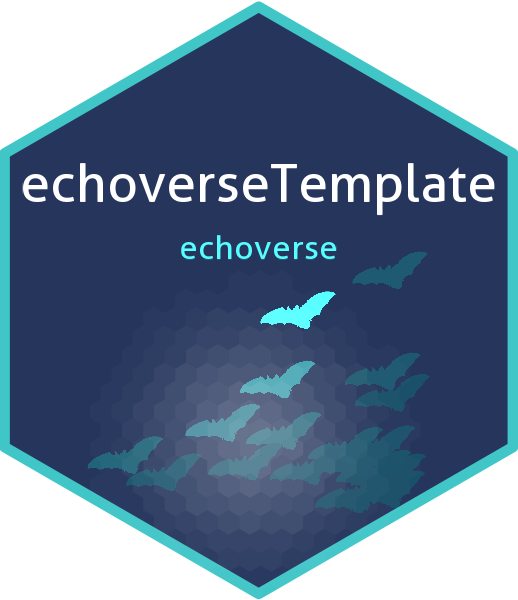
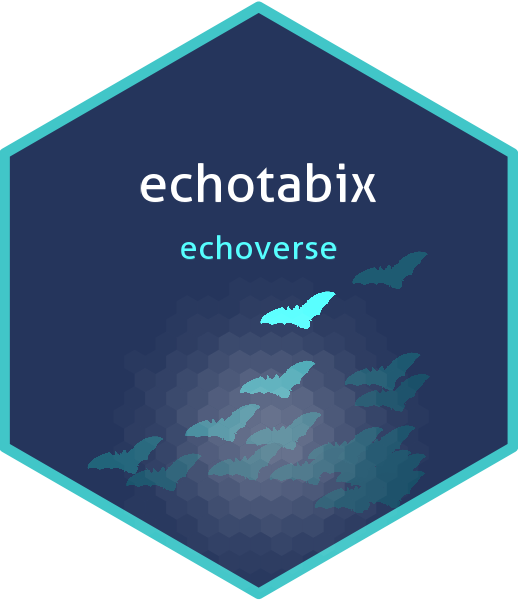
Update e README

Changed region(s): [[0.0309, 0.27, 0.9575, 0.36], [0.1236, 0.33, 0.1544, 0.36]]

diff --git a/README.md b/README.md
@@ -1,43 +1,49 @@
-<!-- badges: start -->
-<!-- badger::badge_codecov() -->
-<!-- badger::badge_last_commit()  -->
-<!-- badger::badge_license() -->
-
-[![](https://codecov.io/gh/RajLabMSSM/echotabix/branch/main/graph/badge.svg)](https://codecov.io/gh/RajLabMSSM/echotabix)
-[![R-CMD-check](https://github.com/RajLabMSSM/echotabix/workflows/R-full/badge.svg)](https://github.com/RajLabMSSM/echotabix/actions)
+<img src='https://github.com/RajLabMSSM/echotabix/raw/main/inst/hex/hex.png' height='300'><br><br>
+[![](https://img.shields.io/badge/devel%20version-0.99.3-black.svg)](https://github.com/RajLabMSSM/echotabix)
+[![R build
+status](https://github.com/RajLabMSSM/echotabix/workflows/R-CMD-check-bioc/badge.svg)](https://github.com/RajLabMSSM/echotabix/actions)
 [![](https://img.shields.io/github/last-commit/RajLabMSSM/echotabix.svg)](https://github.com/RajLabMSSM/echotabix/commits/main)
-<!-- badges: end -->
+[![](https://codecov.io/gh/RajLabMSSM/echotabix/branch/main/graph/badge.svg)](https://codecov.io/gh/RajLabMSSM/echotabix)
+[![License: GPL (\>=
+3)](https://img.shields.io/badge/license-GPL%20(%3E=%203)-blue.svg)](https://cran.r-project.org/web/licenses/GPL%20(%3E=%203))
+<h5>
+Author: <i>Brian M. Schilder</i>
+</h5>
+<h5>
+README updated: <i>Mar-16-2022</i>
+</h5>
 
-# echoverse: echotabix
+## `echotabix`: Tabix indexing and querying.
 
-## Tabix indexing and querying.
+This R package is part of the *echoverse* suite that supports
+[`echolocatoR`](https://github.com/RajLabMSSM/echolocatoR): an automated
+genomic fine-mapping pipeline.
 
-[`Tabix`](http://www.htslib.org/doc/tabix.html) is an extremely
-efficient CLI tool for querying large genomic data. However, using it
-reliably within R is still a challenge. `echotabix` efficiently creates
-and queries `Tabix` files across a variety of scenarios:
+If you use `echotabix`, please cite:
 
--   Checks whether files are already `Tabix`-ready (indexed), and if
-    not, converts them.
--   Queries files in tabular (e.g. *.csv*, *.tsv*, *.bed*) or VCF
-    format.
--   Queries files stored locally or on the remote server.
--   Reports the size of the returned query.
+> Brian M Schilder, Jack Humphrey, Towfique Raj (2021) echolocatoR: an
+> automated end-to-end statistical and functional genomic fine-mapping
+> pipeline, *Bioinformatics*; btab658,
+> <https://doi.org/10.1093/bioinformatics/btab658>
+
+## Installation
 
 ``` r
-if(!"remotes" %in% rownames(installed.packages())){install.packages("remotes")}
+if(!require("remotes")) install.packages("remotes")
 
 remotes::install_github("RajLabMSSM/echotabix")
 library(echotabix)
 ```
 
-## [Documentation website](https://rajlabmssm.github.io/echotabix/)
+## Documentation
 
-## [Vignette](https://rajlabmssm.github.io/echotabix/articles/echotabix)
+### [Website](https://rajlabmssm.github.io/echotabix)
+
+### [Getting started](https://rajlabmssm.github.io/echotabix/articles/echotabix)
 
 <hr>
 
-## Creator
+## Contact
 
 <a href="https://bschilder.github.io/BMSchilder/" target="_blank">Brian
 M. Schilder, Bioinformatician II</a>  
